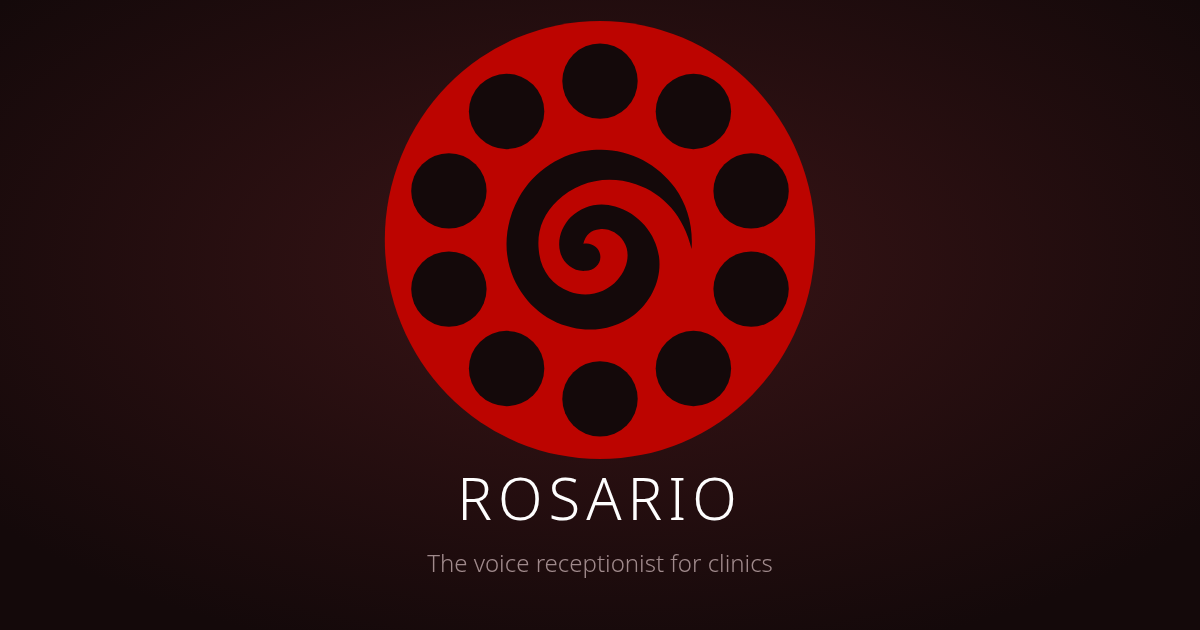
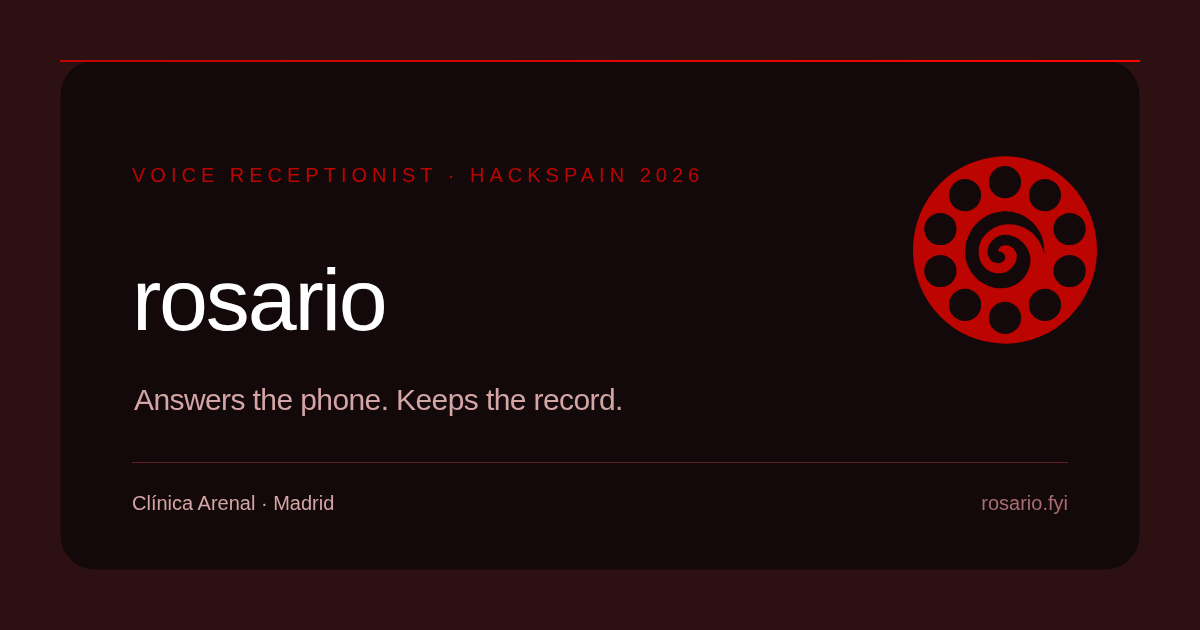
Redesign the og-image and the Resend email to follow DESIGN.md
og-image: Inkline Crimson canvas, Obsidian Burgundy card (35px radius,
hairline border), fire-to-red top hairline, tracked Nava Fire eyebrow,
weight-100 headline register, dial mark contained in the card at a computed
scale, hairline footer with aligned endpoints. Rendered from the SVG and
vision-checked: mark fully inside the card, footer endpoints aligned.

Resend email: same dark system — Obsidian Burgundy card with 35px radius on
the crimson canvas, Nava Fire uppercase eyebrow, weight-300 28px heading,
uppercase tracked field labels over white values with #2d1012 row hairlines,
Dusk Maroon disclaimer separator, Ash Rose body text. Bilingual disclaimer
brightened to Ash Rose for accessibility (was #657069-on-white, then
#a86d70-on-dark which read faint at 12px).

diff --git a/backend/app/appointment_email.py b/backend/app/appointment_email.py
@@ -191,19 +191,18 @@ def message(session: "CallSession", action: dict, address: str) -> dict:
         + f"\n\n{disclaimer}"
     )
     rows = "".join(
-        f'<tr><td style="padding:12px 0;border-bottom:1px solid #e3e9e6;color:#52605a;font-size:12px">{escape(label)}<br><strong style="color:#152a22;font-size:17px">{escape(str(value))}</strong></td></tr>'
+        f'<tr><td style="padding:14px 0;border-bottom:1px solid #2d1012;color:#a86d70;font-family:Helvetica,Arial,sans-serif;font-size:12px;letter-spacing:0.5px;text-transform:uppercase">{escape(label)}<br><strong style="color:#fefefe;font-size:17px;font-weight:400;letter-spacing:0">{escape(str(value))}</strong></td></tr>'
         for label, value in fields
     )
     html = f"""<!doctype html>
 <html lang="es"><head><meta name="viewport" content="width=device-width,initial-scale=1"></head>
-<body style="margin:0;background:#f3f5f2;font-family:Arial,sans-serif;color:#152a22">
-<table role="presentation" width="100%" cellspacing="0" cellpadding="0"><tr><td align="center" style="padding:24px 12px">
-<table role="presentation" width="100%" style="max-width:520px;background:#fff;border-radius:16px" cellspacing="0" cellpadding="0"><tr><td style="padding:32px">
-<p style="margin:0 0 24px;letter-spacing:2px;font-size:12px">ROSARIO · {escape(clinic_name)}</p>
-<p style="color:#52715e;font-size:12px">HACKSPAIN 2026 · DEMO</p>
-<h1 style="font-size:24px;line-height:1.3;margin:0 0 16px">{escape(title)}</h1>
+<body style="margin:0;background:#2d1012;font-family:Helvetica,Arial,sans-serif;color:#fefefe">
+<table role="presentation" width="100%" cellspacing="0" cellpadding="0"><tr><td align="center" style="padding:32px 12px">
+<table role="presentation" width="100%" style="max-width:520px;background:#14090a;border:1px solid #2d1012;border-radius:35px" cellspacing="0" cellpadding="0"><tr><td style="padding:32px">
+<p style="margin:0 0 24px;color:#bc0400;font-size:10px;font-weight:400;letter-spacing:2.5px;text-transform:uppercase">ROSARIO · {escape(clinic_name)}</p>
+<h1 style="font-size:28px;line-height:1.3;margin:0 0 16px;font-weight:300;letter-spacing:-0.56px">{escape(title)}</h1>
 <table role="presentation" width="100%" cellspacing="0" cellpadding="0">{rows}</table>
-<p style="font-size:12px;line-height:1.6;color:#657069;margin:24px 0 0">{escape(disclaimer)}</p>
+<p style="border-top:1px solid #5e1f25;margin:24px 0 0;padding-top:16px;font-size:12px;line-height:1.8;font-weight:300;color:#d4a5a5">{escape(disclaimer)}</p>
 </td></tr></table></td></tr></table></body></html>"""
     return {
         "from": config.RESEND_FROM_EMAIL,
